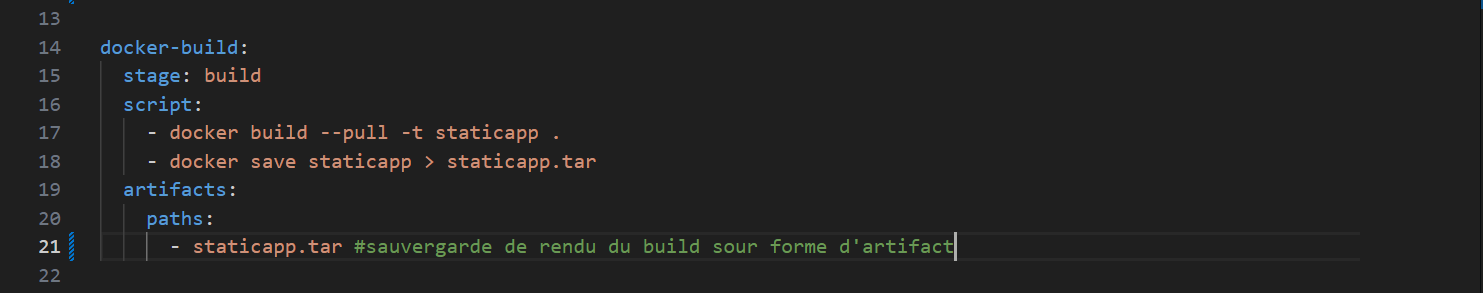
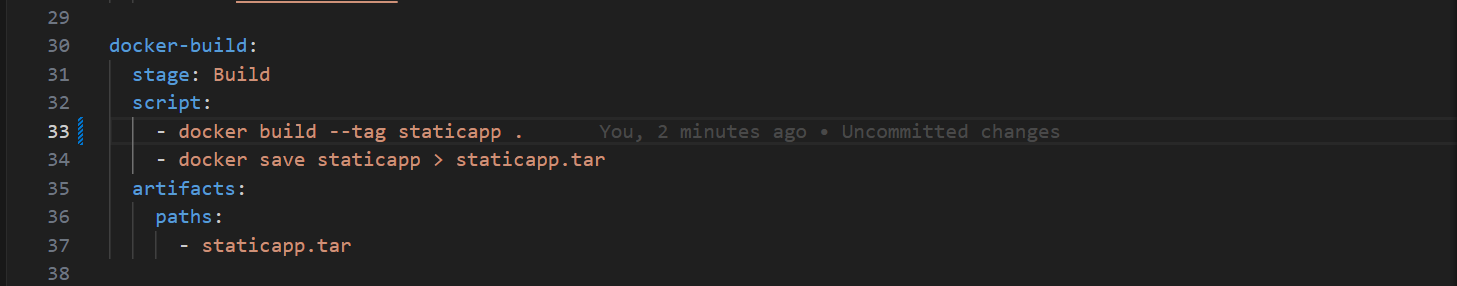
update readme

diff --git a/README.md b/README.md
@@ -85,7 +85,7 @@ git push --set-upstream origin main
 Create a hidden file named .gitlab-ci.yml and place it in the root directory of the project. This is necessary for GitLab to retrieve and configure the pipeline. Once GitLab detects this file, it will assign runners to execute your pipeline. The content of the gitlab-ci.yml is as follows.
 
 ````
-cd projet-web-cicd\
+cd projet-web-cicd/
 cat .gitlab-ci.yml
 ````
 >![Alt text](img/image-7.png)
@@ -109,7 +109,7 @@ In this step, I directly access the code from the remote repository. In the dock
 *stage build dans le gitlab-ci*
 
 ### 4.1. Explanations
-1. `docker build --pull -t staticapp .`: This command builds a Docker image from the Dockerfile present in the current directory (.). The --pull option ensures that the base images are always up to date.
+1. `docker build --tag staticapp .`: This command builds a Docker image from the Dockerfile present in the current directory (.). The --pull option ensures that the base images are always up to date.
 
 2. `docker save staticapp > staticapp.tar`: The built Docker image is then saved as a tar archive in the file staticapp.tar. This archive contains the complete image, ready to be loaded later.
 
@@ -288,12 +288,45 @@ The "deploy staging" script orchestrates the deployment of the static-webapp app
 2. image: alpine:latest: Specifies the Docker image to use for running the job, in this case, Alpine Linux.
 3. stage: Deploy staging: Indicates the deployment stage in the GitLab pipeline, here "Deploy staging".
 4. script:
-   - chmod og= $ID_RSA: Adjusts the permissions of the SSH identification file so that only the owner can access it.
-   - apk update && apk add openssh-client: Updates packages and installs the SSH client.
-   - ssh -i $ID_RSA -o StrictHostKeyChecking=no $SERVER_USER@$SERVER_IP "docker login -u "$CI_REGISTRY_USER" -p "$CI_REGISTRY_PASSWORD" $CI_REGISTRY": Uses SSH to connect to the EC2 instance, then connects to the GitLab CI/CD Docker registry for authentication.
-   - ssh -i $ID_RSA -o StrictHostKeyChecking=no $SERVER_USER@$SERVER_IP "docker pull ${IMAGE_NAME}:${CI_COMMIT_REF_NAME}": Downloads the Docker image associated with the current branch from the GitLab CI/CD Docker registry.
-   - ssh -i $ID_RSA -o StrictHostKeyChecking=no $SERVER_USER@$SERVER_IP "docker container rm -f static-webapp || true": Removes the existing Docker container if it's named "static-webapp".
-   - ssh -i $ID_RSA -o StrictHostKeyChecking=no $SERVER_USER@$SERVER_IP "docker run --rm -d -p 80:80 --name static-webapp ${IMAGE_NAME}:${CI_COMMIT_REF_NAME}": Launches a new Docker container from the downloaded image, with the name "static-webapp" and exposing port 80.
+    Here are the explanations for each line of the script:
+
+ - 
+ ````
+ chmod og= $ID_RSA
+ ````
+  This command changes the permissions of the file represented by the variable $ID_RSA by removing access permissions for groups and other users. This can be used to secure SSH private keys.
+
+ - 
+ ````
+ apk update && apk add openssh-client
+ ````
+  These commands update the apk package repositories and install the OpenSSH client in the Alpine Linux image. The OpenSSH client is required for connecting to SSH servers.
+
+ - 
+ ````
+ ssh -i $ID_RSA -o StrictHostKeyChecking=no $SERVER_USER@$SERVER_IP "docker login -u "$CI_REGISTRY_USER" -p "$CI_REGISTRY_PASSWORD" $CI_REGISTRY"
+ ````
+ This line uses SSH to connect to a remote server specified by $SERVER_IP with the user $SERVER_USER, using the private key defined by $ID_RSA. Then, it executes a Docker command to authenticate to a Docker registry ($CI_REGISTRY) using the credentials specified by the environment variables $CI_REGISTRY_USER and $CI_REGISTRY_PASSWORD.
+
+ - 
+ ````
+ ssh -i $ID_RSA -o StrictHostKeyChecking=no $SERVER_USER@$SERVER_IP "docker pull ${IMAGE_NAME}:${CI_COMMIT_REF_NAME}"
+ ````
+  This line uses SSH to connect to the remote server and executes a Docker command to pull a Docker image specified by ${IMAGE_NAME}:${CI_COMMIT_REF_NAME} from a Docker registry. This retrieves the latest version of the image for deployment.
+
+ - 
+ ````
+ ssh -i $ID_RSA -o StrictHostKeyChecking=no $SERVER_USER@$SERVER_IP "docker container rm -f static-webapp || true"
+ ````
+ This line uses SSH to connect to the remote server and removes the Docker container named "static-webapp" if it exists. The "|| true" ensures that the command will not fail if the container does not exist.
+
+ - 
+ ````
+ ssh -i $ID_RSA -o StrictHostKeyChecking=no $SERVER_USER@$SERVER_IP "docker run --rm -d -p 344:80 --name static-webapp ${IMAGE_NAME}:${CI_COMMIT_REF_NAME}"
+ ```` 
+ This line uses SSH to connect to the remote server and executes a Docker command to start a new Docker container named "static-webapp" from the image specified by ${IMAGE_NAME}:${CI_COMMIT_REF_NAME}. The container is started in detached mode (-d) and exposes port 80 of the container on port 344 of the host machine.
+    
+
 5. environment: Declares the environment associated with this deployment.
 6. only: Indicates the conditions to run this job, in this case, it will only be executed for the main branch.
 
